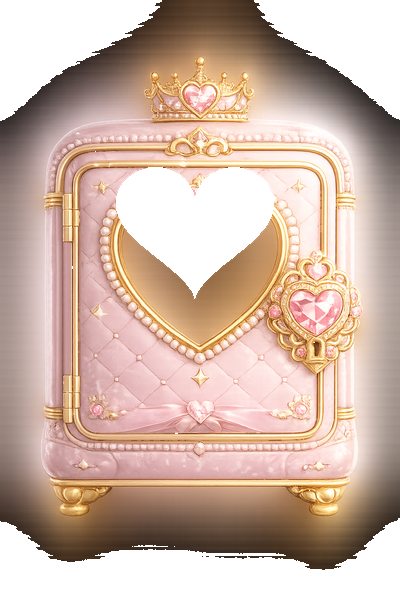
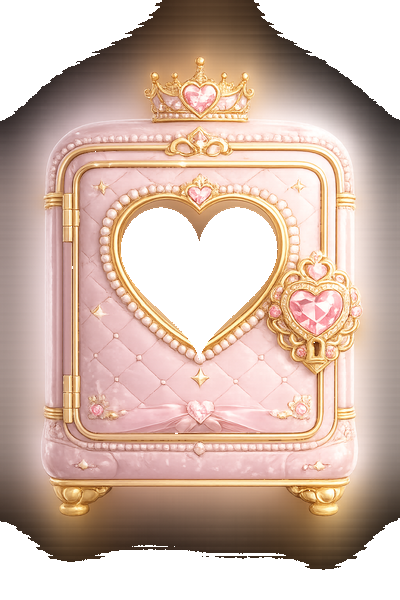
fix: 하트 위치 골드 프레임 안에 정확히 맞춤 (center 120,162)

Changed region(s): [[0.27, 0.27, 0.69, 0.6]]

diff --git a/index.html b/index.html
@@ -62,7 +62,7 @@ body{font-family:'Gowun Batang','Noto Sans KR',-apple-system,sans-serif;backgrou
 .safe-assembly{position:relative;width:240px;height:360px;margin:0 auto}
 /* Reward image BEHIND the frame — shows through transparent heart hole */
 .safe-img-layer{position:absolute;inset:0;z-index:1;pointer-events:none}
-.safe-img-layer img{position:absolute;top:36px;left:36px;width:167px;height:169px;object-fit:cover;object-position:center;transition:filter .5s}
+.safe-img-layer img{position:absolute;top:120px;left:68px;width:103px;height:101px;object-fit:cover;object-position:center;transition:filter .5s}
 /* PNG safe frame ON TOP (has transparent heart hole) */
 .safe-frame-img{position:absolute;inset:0;width:100%;height:100%;z-index:2;pointer-events:none;object-fit:contain;transition:filter .4s}
 /* Stage tints for frame — no grayscale, keep original colors */
